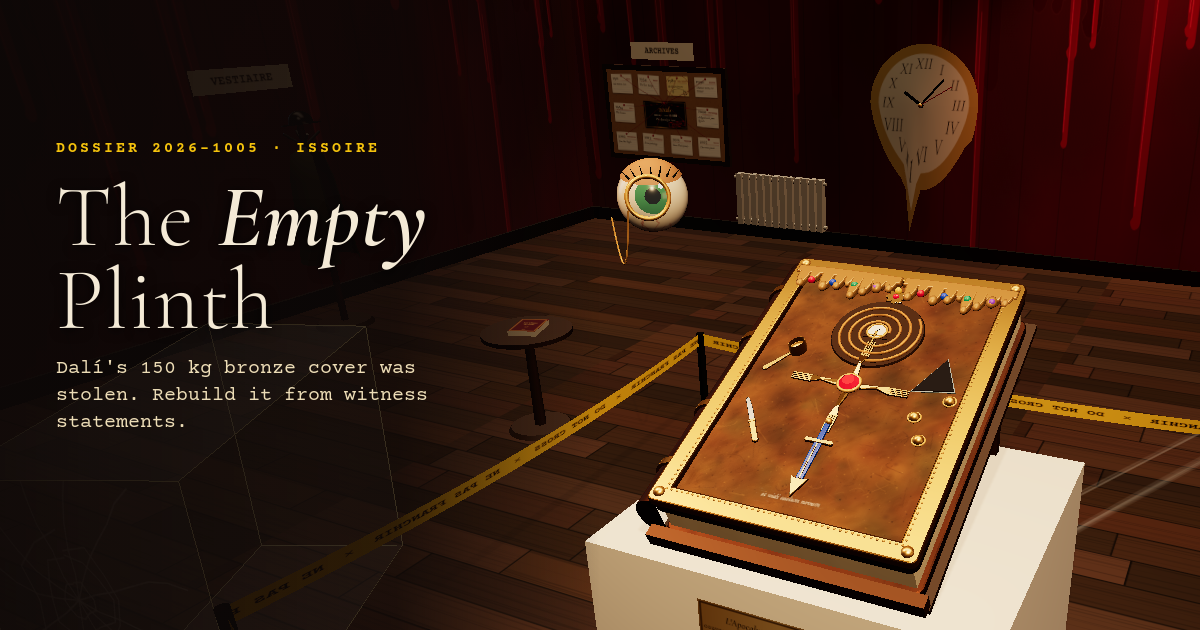
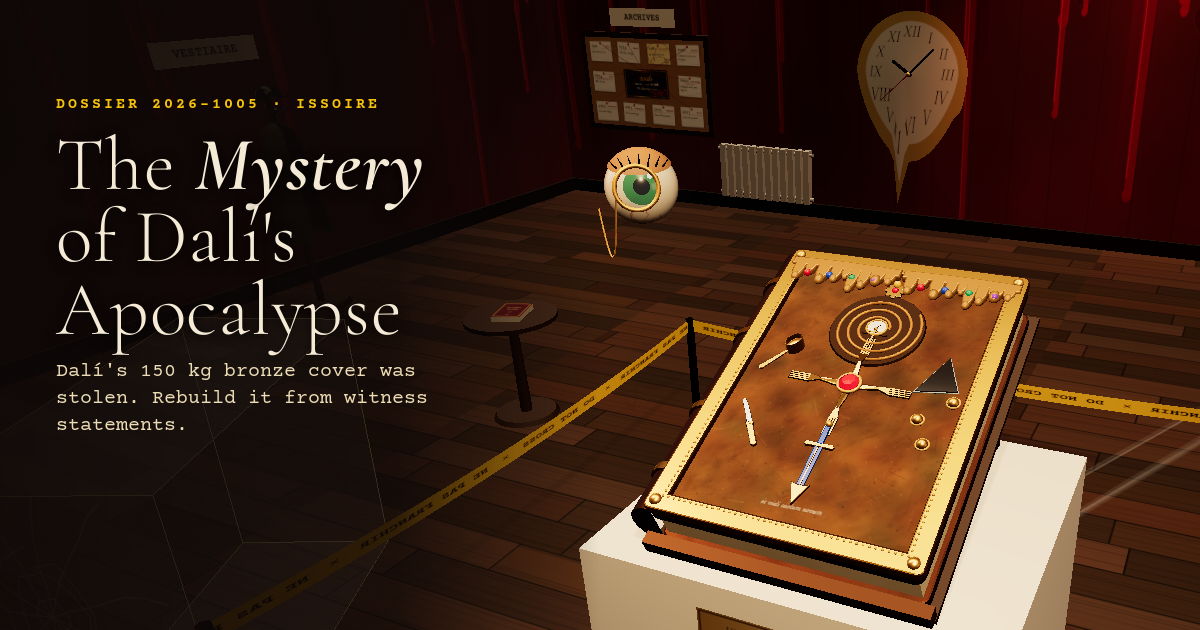
Empty Plinth v1.7: renamed The Mystery of Dalí's Apocalypse (Marci's pick), new link preview

diff --git a/apps/empty-plinth/index.html b/apps/empty-plinth/index.html
@@ -3,13 +3,13 @@
 <head>
 <meta charset="utf-8">
 <meta name="viewport" content="width=device-width, initial-scale=1, viewport-fit=cover">
-<title>The Empty Plinth — rebuild Dalí's stolen bronze cover from witness statements</title>
+<title>The Mystery of Dalí's Apocalypse — rebuild the stolen bronze cover from witness statements</title>
 <meta name="description" content="A 150 kg bronze book cover vanished overnight. Read the witness statements, rebuild it in 3D with gold, gems and shells, and see if the curator agrees.">
 <link rel="icon" href="https://emojicdn.elk.sh/🖼">
 <link rel="canonical" href="https://app.sloppy.live/empty-plinth/">
 <meta name="theme-color" content="#140d0b">
 <meta property="og:type" content="website">
-<meta property="og:title" content="The Empty Plinth">
+<meta property="og:title" content="The Mystery of Dalí's Apocalypse">
 <meta property="og:description" content="A 150 kg bronze cover vanished overnight. Rebuild it from the witness statements.">
 <meta property="og:url" content="https://app.sloppy.live/empty-plinth/">
 <meta property="og:image" content="https://app.sloppy.live/empty-plinth/og.png">
@@ -17,7 +17,7 @@
 <link rel="preconnect" href="https://fonts.googleapis.com">
 <link rel="preconnect" href="https://fonts.gstatic.com" crossorigin>
 <link href="https://fonts.googleapis.com/css2?family=Cormorant+Garamond:ital,wght@0,300;0,700;1,300;1,600&family=IM+Fell+English:ital@0;1&family=Courier+Prime:wght@400;700&family=Special+Elite&display=swap" rel="stylesheet">
-<script type="application/ld+json">{"@context":"https://schema.org","@type":"VideoGame","name":"The Empty Plinth","url":"https://app.sloppy.live/empty-plinth/","description":"Rebuild a stolen bronze book cover in 3D from witness statements, then let the curator judge.","genre":["Puzzle","Detective"],"gamePlatform":"Web browser","applicationCategory":"Game"}</script>
+<script type="application/ld+json">{"@context":"https://schema.org","@type":"VideoGame","name":"The Mystery of Dalí's Apocalypse","url":"https://app.sloppy.live/empty-plinth/","description":"Rebuild a stolen bronze book cover in 3D from witness statements, then let the curator judge.","genre":["Puzzle","Detective"],"gamePlatform":"Web browser","applicationCategory":"Game"}</script>
 <style>
 [hidden]{display:none!important}
 :root{
@@ -261,7 +261,7 @@ body.verdict #dock,body.verdict #folder,body.verdict #hint{visibility:hidden}
 <header id="top">
   <div class="brand">
     <p class="case-no">Dossier 2026-1005 · Issoire</p>
-    <h1>The <i>Empty</i> Plinth</h1>
+    <h1>The <i>Mystery</i> of Dalí's Apocalypse</h1>
   </div>
   <nav class="modes" aria-label="Mode">
     <button type="button" id="mCase" aria-pressed="true">Case</button>
@@ -438,7 +438,7 @@ body.verdict #dock,body.verdict #folder,body.verdict #hint{visibility:hidden}
 <script>
 (function (root) {
   'use strict';
-  /* Empty Plinth case engine: pure data + rules, no DOM. Cover coords: x,y in -0.5..0.5 (normalised), metres = x*W, y*H. */
+  /* The Mystery of Dalí's Apocalypse (folder empty-plinth): case engine: pure data + rules, no DOM. Cover coords: x,y in -0.5..0.5 (normalised), metres = x*W, y*H. */
   var W = 1.0, H = 1.36, SLAB = 120, BAND = 0.15, CORNER = 0.2, CENTRE = 0.11, MAX = 160;
   var TYPES = [
     { id: 'leaf', name: 'Gold leaf', w: 0.4, r: 0.075 },

diff --git a/apps/empty-plinth/notes.md b/apps/empty-plinth/notes.md
@@ -16,6 +16,8 @@ Hard rules: never replicate the real cover or use/link any image of it; no exter
 - og.png re-rendered (2026-10-06): 1200x630, Marci's assemblage cover (the round-1 solution placement from the s11 test) in the sagging room with the melting clock, the eye curator, drips, archive board and cookbook; same left text block as v1.0 (kicker, "The Empty Plinth", tagline). Recipe: studio mode, place items, sag(0.6), hide UI, camTo(0.42, 1.16, 3.5), setViewOffset(1200,630,-240,-60,...). Redo it if the app is renamed.
 - v1.6 (2026-10-06): the secret. Once every page is found (closePage after the last one, or maybeSecret() on load/case for players who already had them all = legacy), playSecret() runs once (store.secret=1): the camera goes to the clock, which runs FORWARDS for ~2.6 s (clockOff +480 s, time-based, eased; reduced motion = jump), then to the cookbook table (tableShot), the ghost glides beside it (ghostAim/ghostHold override the drift) and says one plain truth (TRUTH, label "for once, not lying"), while page 9 (a red-bordered dinner-menu scrap, child of the cookbook, slidePage9) slides out from under the cookbook and glows. Clicking it (or the #p9Btn "Read page 9") opens the torn card with class .nine: RIDDLE9 (spoon, egg, loaf on a crutch, drawer, key, ants). "Lay the table in the studio" (closePage9(true)) sets store.dinner=1, switches to the studio and opens the new Dinner tab; "Back to the case" leaves the toast with a Go now button. Dinner set = 6 new types appended (21 mspoon gold dripping spoon, 22 egg with gold crack, 23 ants trail, 24 trefoil key, 25 loaf propped on a crutch, 26 half-open drawer), all our own shapes; per the coordinator, no lobster telephone (a specific Dalí work). The Dinner tab (CATS secret:true, DINNER_CAT) only shows in studio mode once store.dinner is set; arrow keys skip hidden tabs. Cookbook click after dinner has its own toast. Test hooks: __EP.playSecret/openPage9/closePage9/tableShot/clockShot/slidePage9/syncCats + getters clockOff/secretRun. Engine tests 35/35.
 
+- v1.7 (2026-10-07 ~17:56 UTC) renamed "The Mystery of Dalí's Apocalypse" (Marci's pick: Dalí + the book's name + mystery): <title>, og:title, JSON-LD name, h1 (The <i>Mystery</i> of Dalí's Apocalypse). og.png re-rendered with the s21 recipe as ep/s28.json (h1 76px on three lines, top 96px). Folder stays empty-plinth. Marci's next idea: Dalí's ghost stole the cover himself; a phone game playable without instructions
+
 ## structure
 - One file. Script 1 = engine (window.EPC): TYPES (index order is the share-code format, only append), GEMS, ZONES, check(), ROUNDS, judge(), encode/decode. Script 2 = module (three.js scene, UI). Test hook: window.__EP.
 - Source of truth while developing: the session scratchpad ep/ (head.html, body.html, engine.js, app.js, eng_test.js = node test with a 3-star solution per round). If that is gone, edit index.html directly and re-extract.
@@ -29,6 +31,6 @@ Hard rules: never replicate the real cover or use/link any image of it; no exter
 - Headless SwiftShader is slow; thumbnails are rendered with the main renderer (scissor) at boot.
 
 ## todos (queued from Marci, in order)
-- Possible rename (coordinator will send the name; change title/og/heading only, no folder move).
+- DONE 2026-10-07: renamed (title/og/heading only, folder stays empty-plinth).
 - Ideas: let the ghost riddle about the archive; ask Marci if more heists should go on the board; a "set the table" mini-goal for the Dinner set (curator comments on a laid table); a way to replay the secret (e.g. from the ? sheet).
 - Secret flow: the canvas ignores clicks while secretRun; the ghost bubble holds 14 s on that line. Shot framings are tuned per narrow/wide in tableShot/ghostSpot, so re-check both sizes if the room layout changes near the cookbook (-3.1, 0, -1.5).
